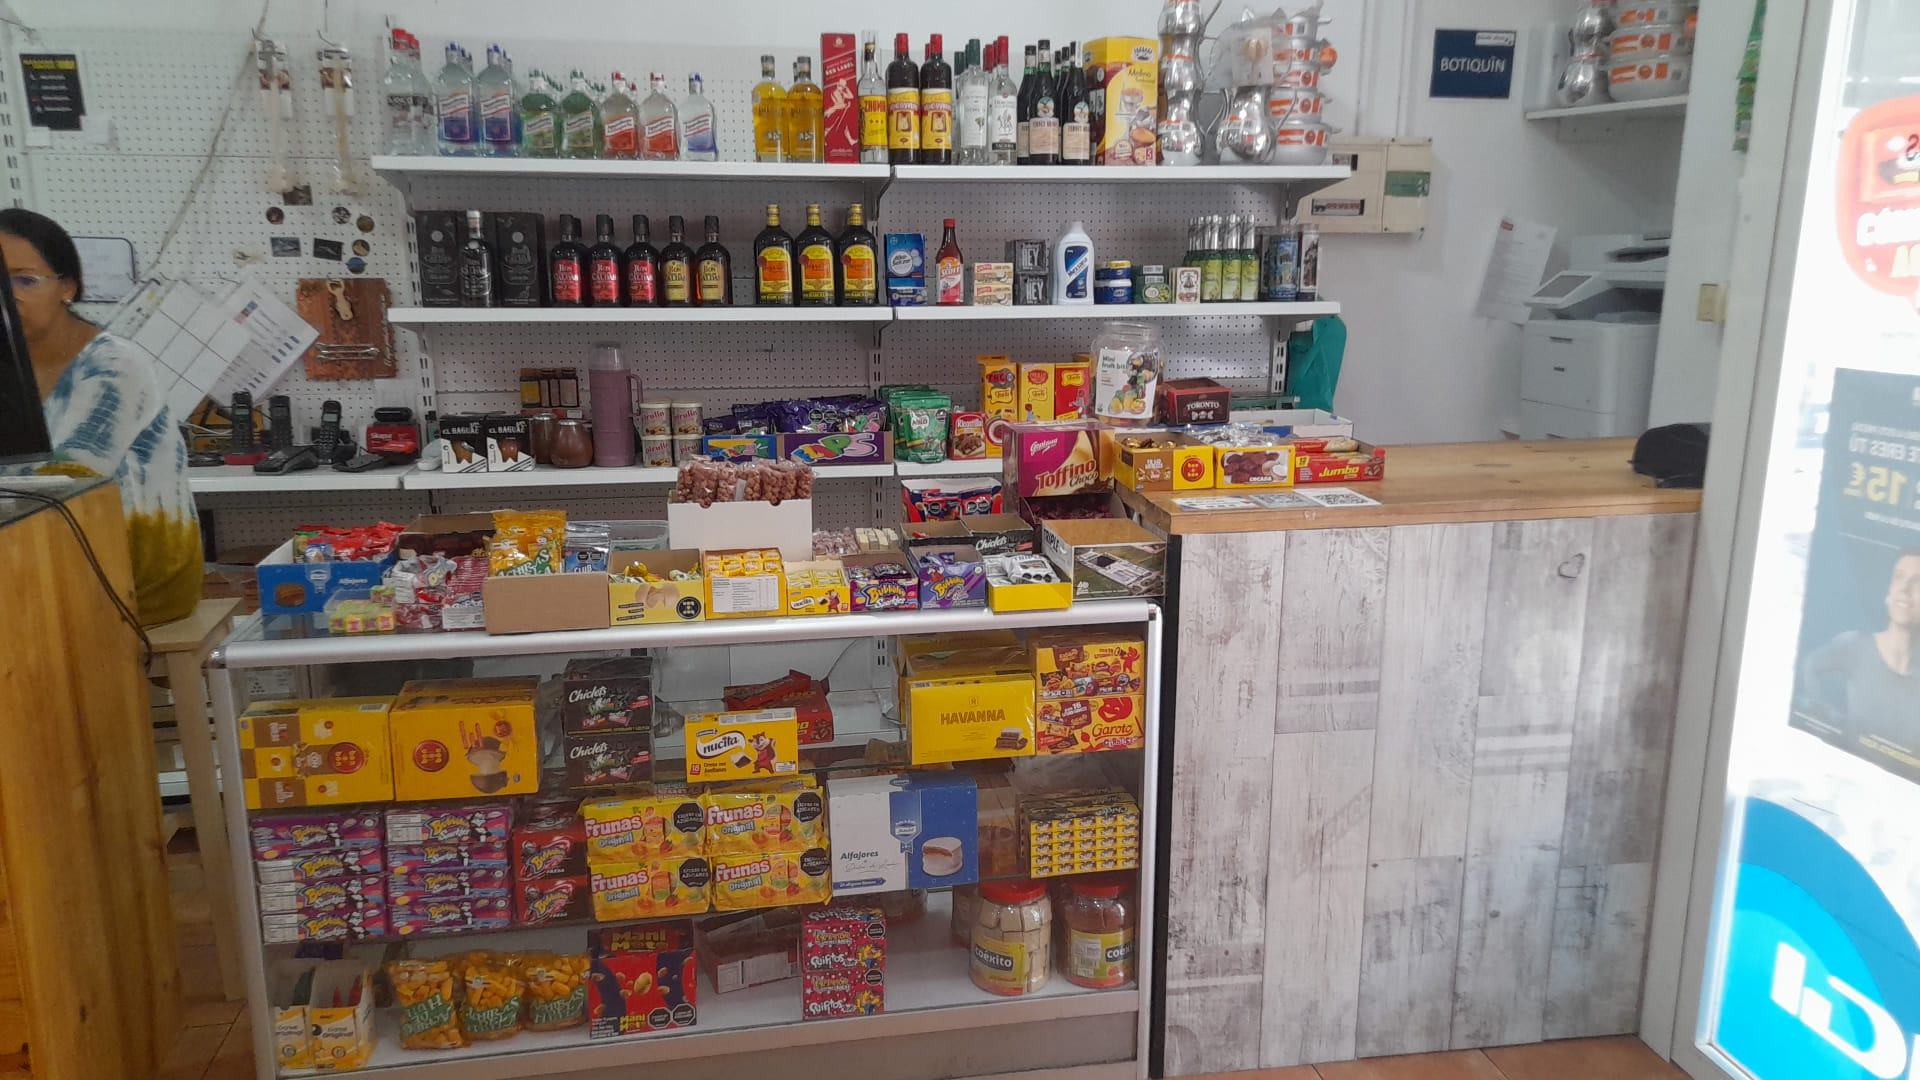
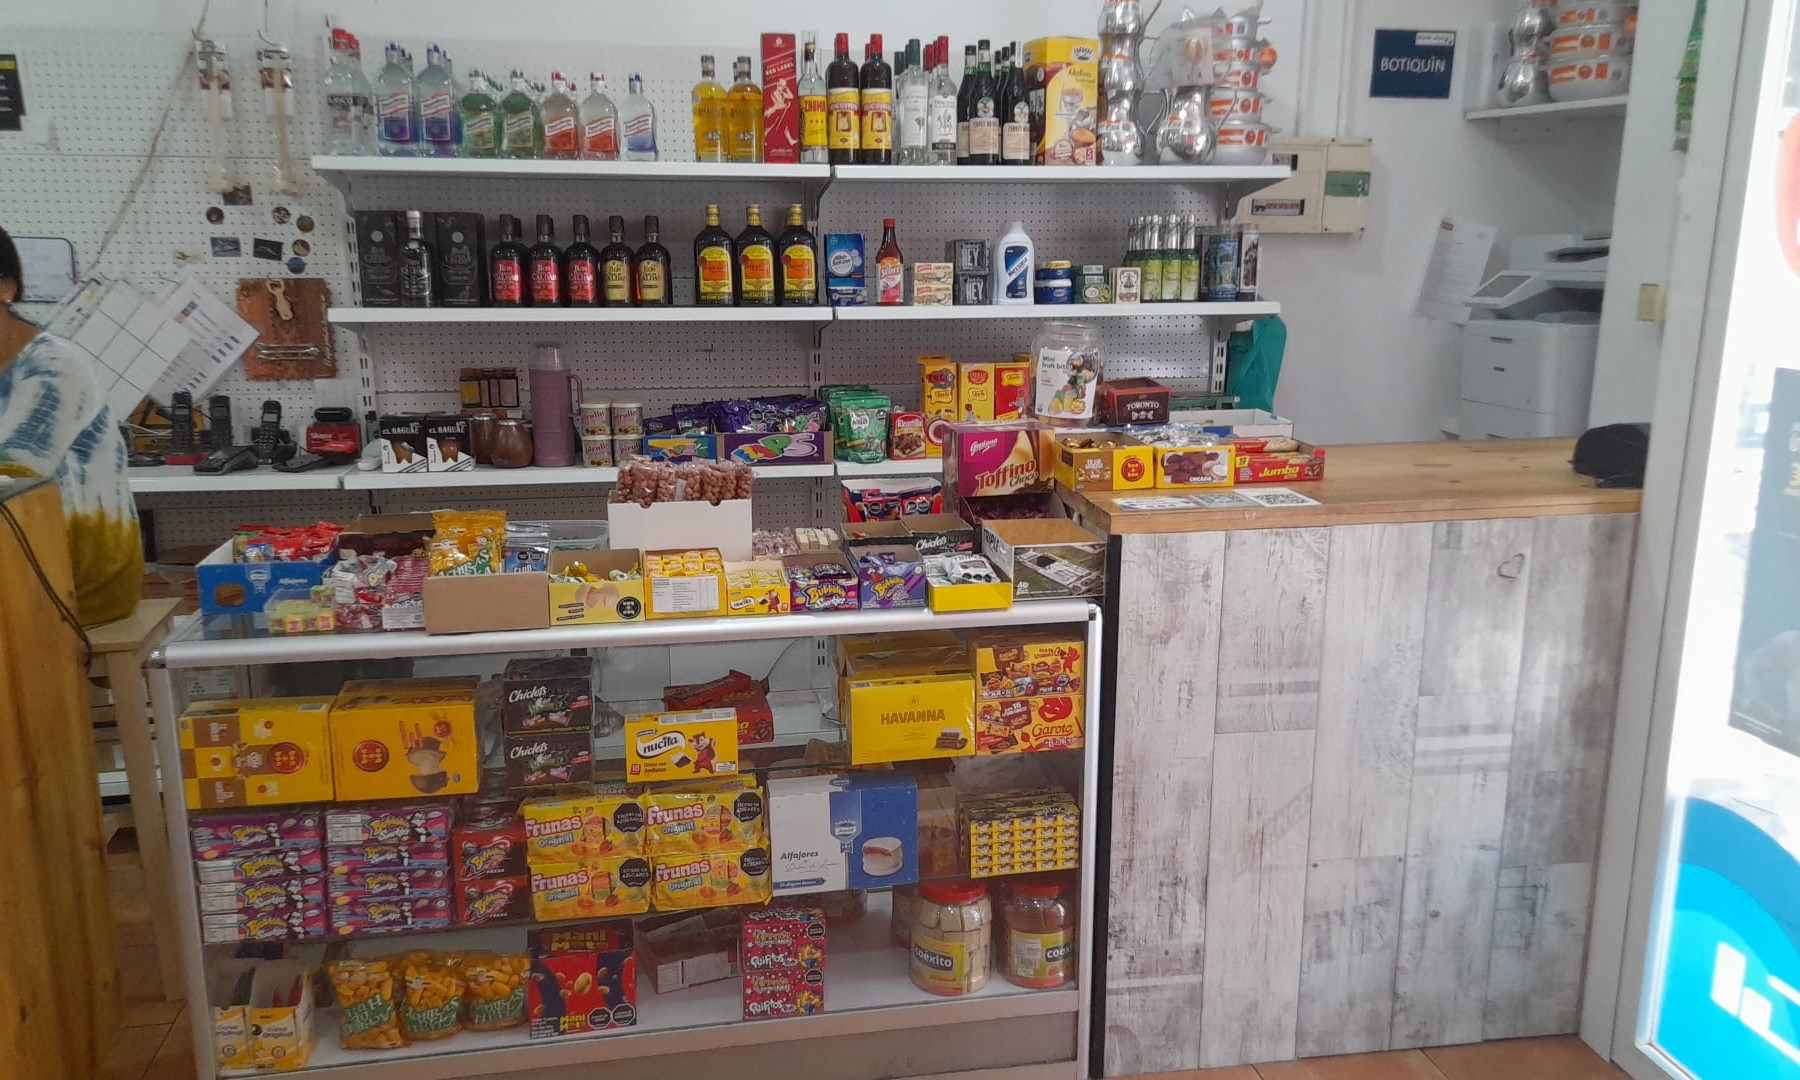
bloviy

diff --git a/contactanos.html b/contactanos.html
@@ -31,7 +31,7 @@
         <div id="carouselExampleRide" class="carousel carousel-adjusted slide" data-bs-ride="true">
             <div class="carousel-inner">
               <div class="carousel-item active carousel-pic">
-                <img src="assets/logo donde jhon desde 2017.jpg" class="d-block w-100 carousel-pic" alt="logo-banner">
+                <img src="assets/logo donde jhon desde 2017-carrusel.jpg" class="d-block w-100 carousel-pic" alt="logo-banner">
               </div>
               <div class="carousel-item carousel-pic">
                 <img src="assets/contactanos/tienda-afuera.jpeg" class="d-block w-100 carousel-pic" alt="tienda-afuera">
